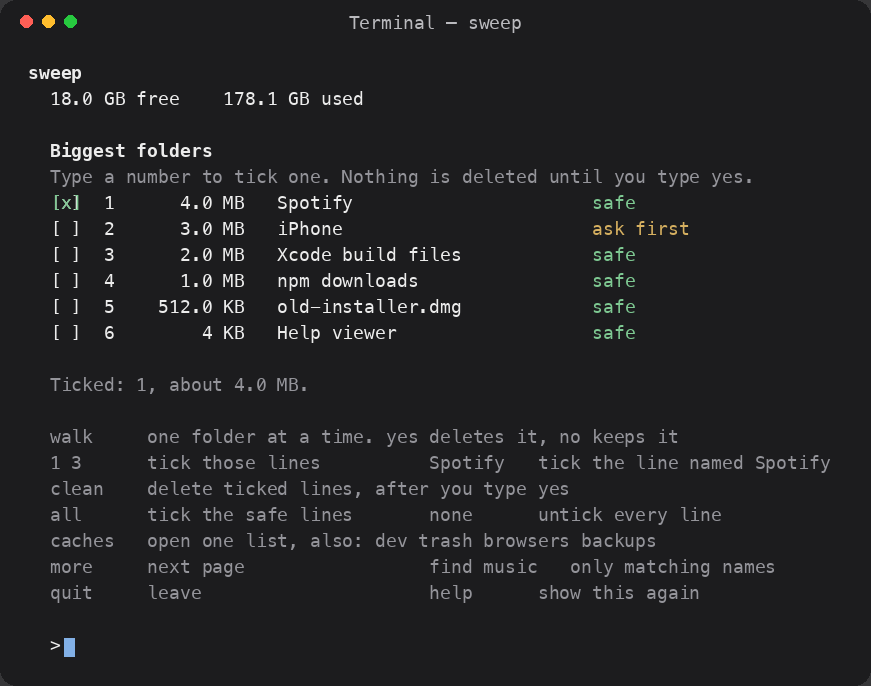
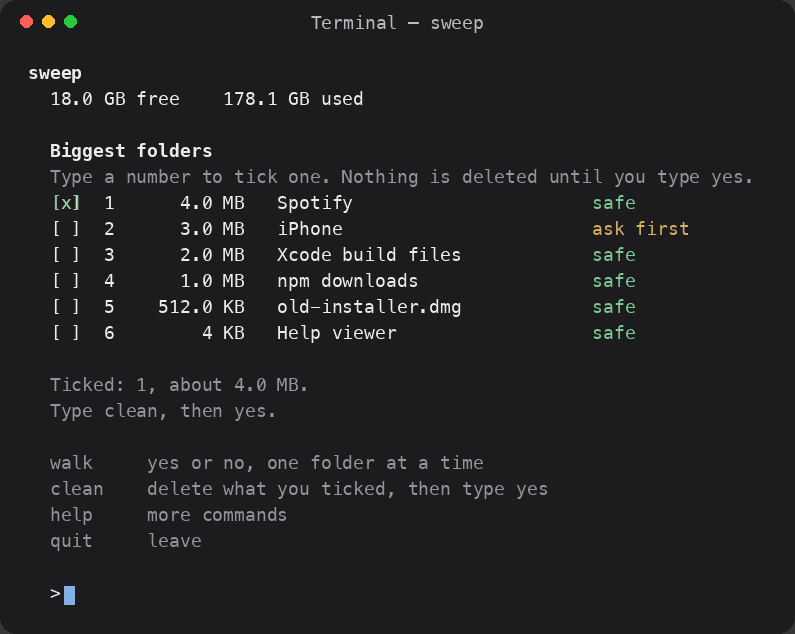
Color the menu and keep the first screen to four commands.
Safe lines are green, ask-first lines are yellow, and help holds the rest.

diff --git a/README.md b/README.md
@@ -40,7 +40,7 @@ make install
 - Type `groups` for the short list of those names.
 - Type `safe`, then `yes`, to clear the usual caches and leave backups alone.
 - Type `walk` to go one safe folder at a time. `yes` deletes it, `no` keeps it, `quit` stops.
-- Type `quit` to leave.
+- Type `help` if you want the rest of the commands, and `quit` to leave.
 
 ## Commands
 
